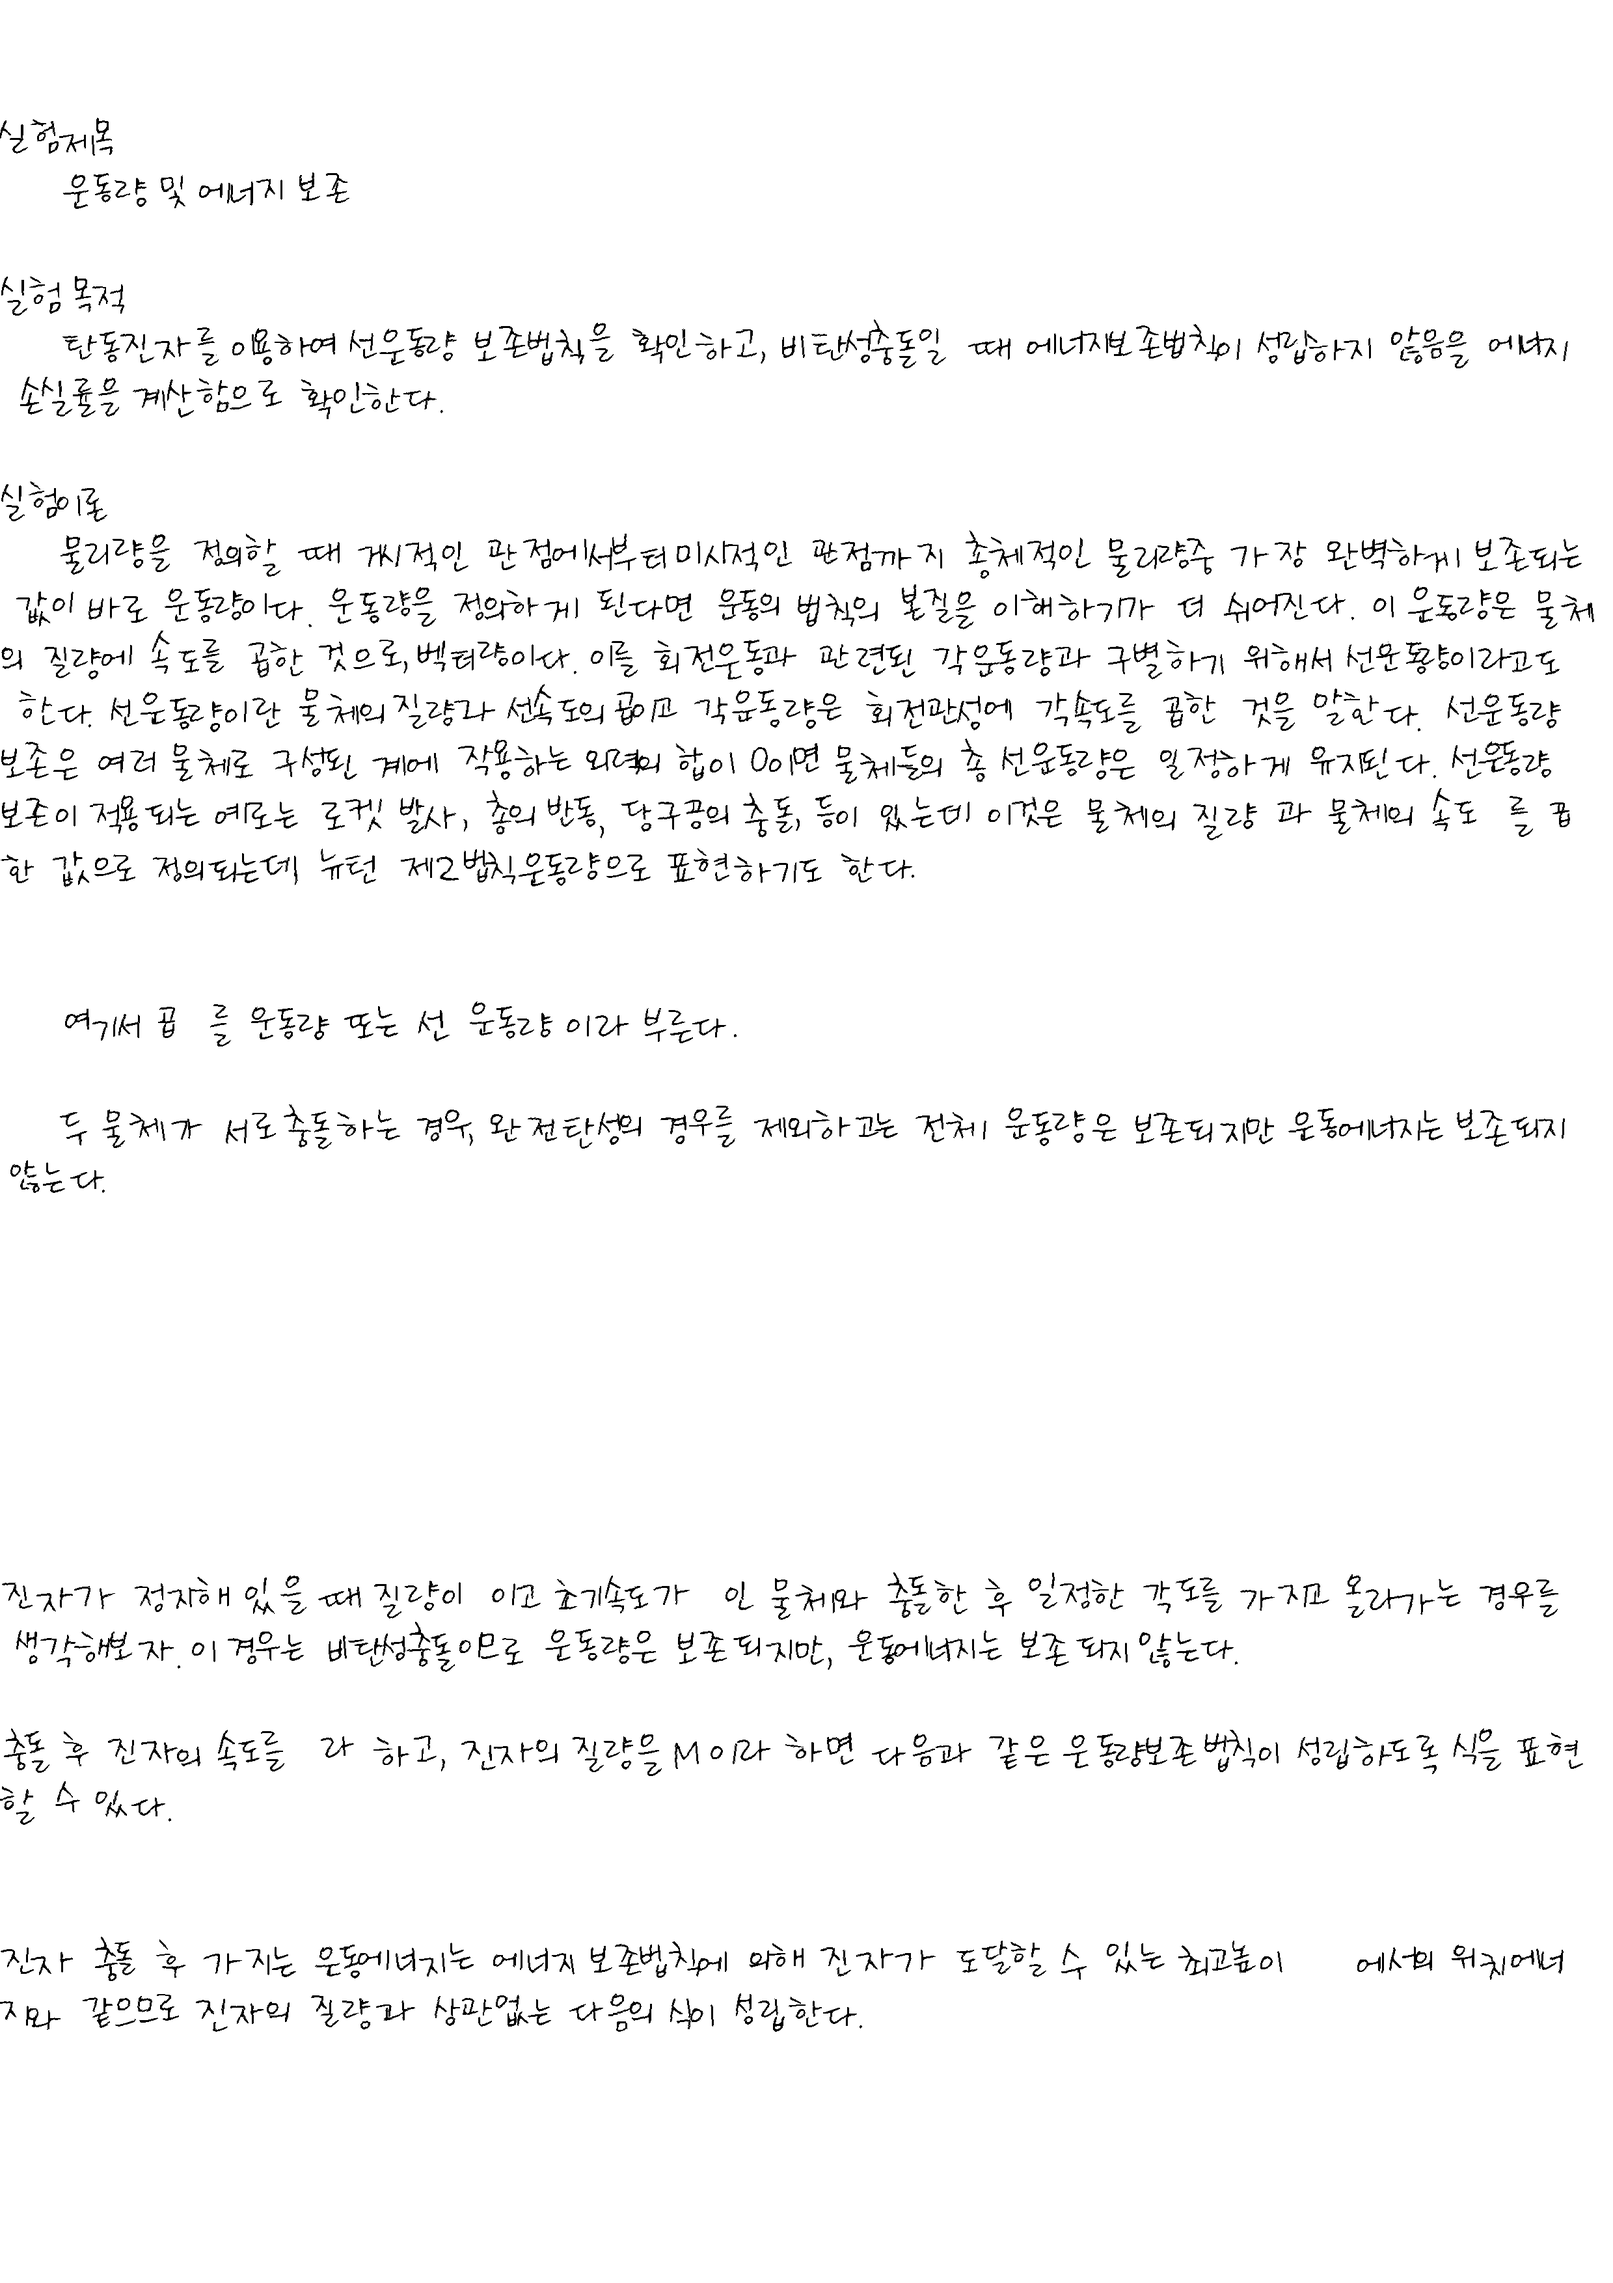
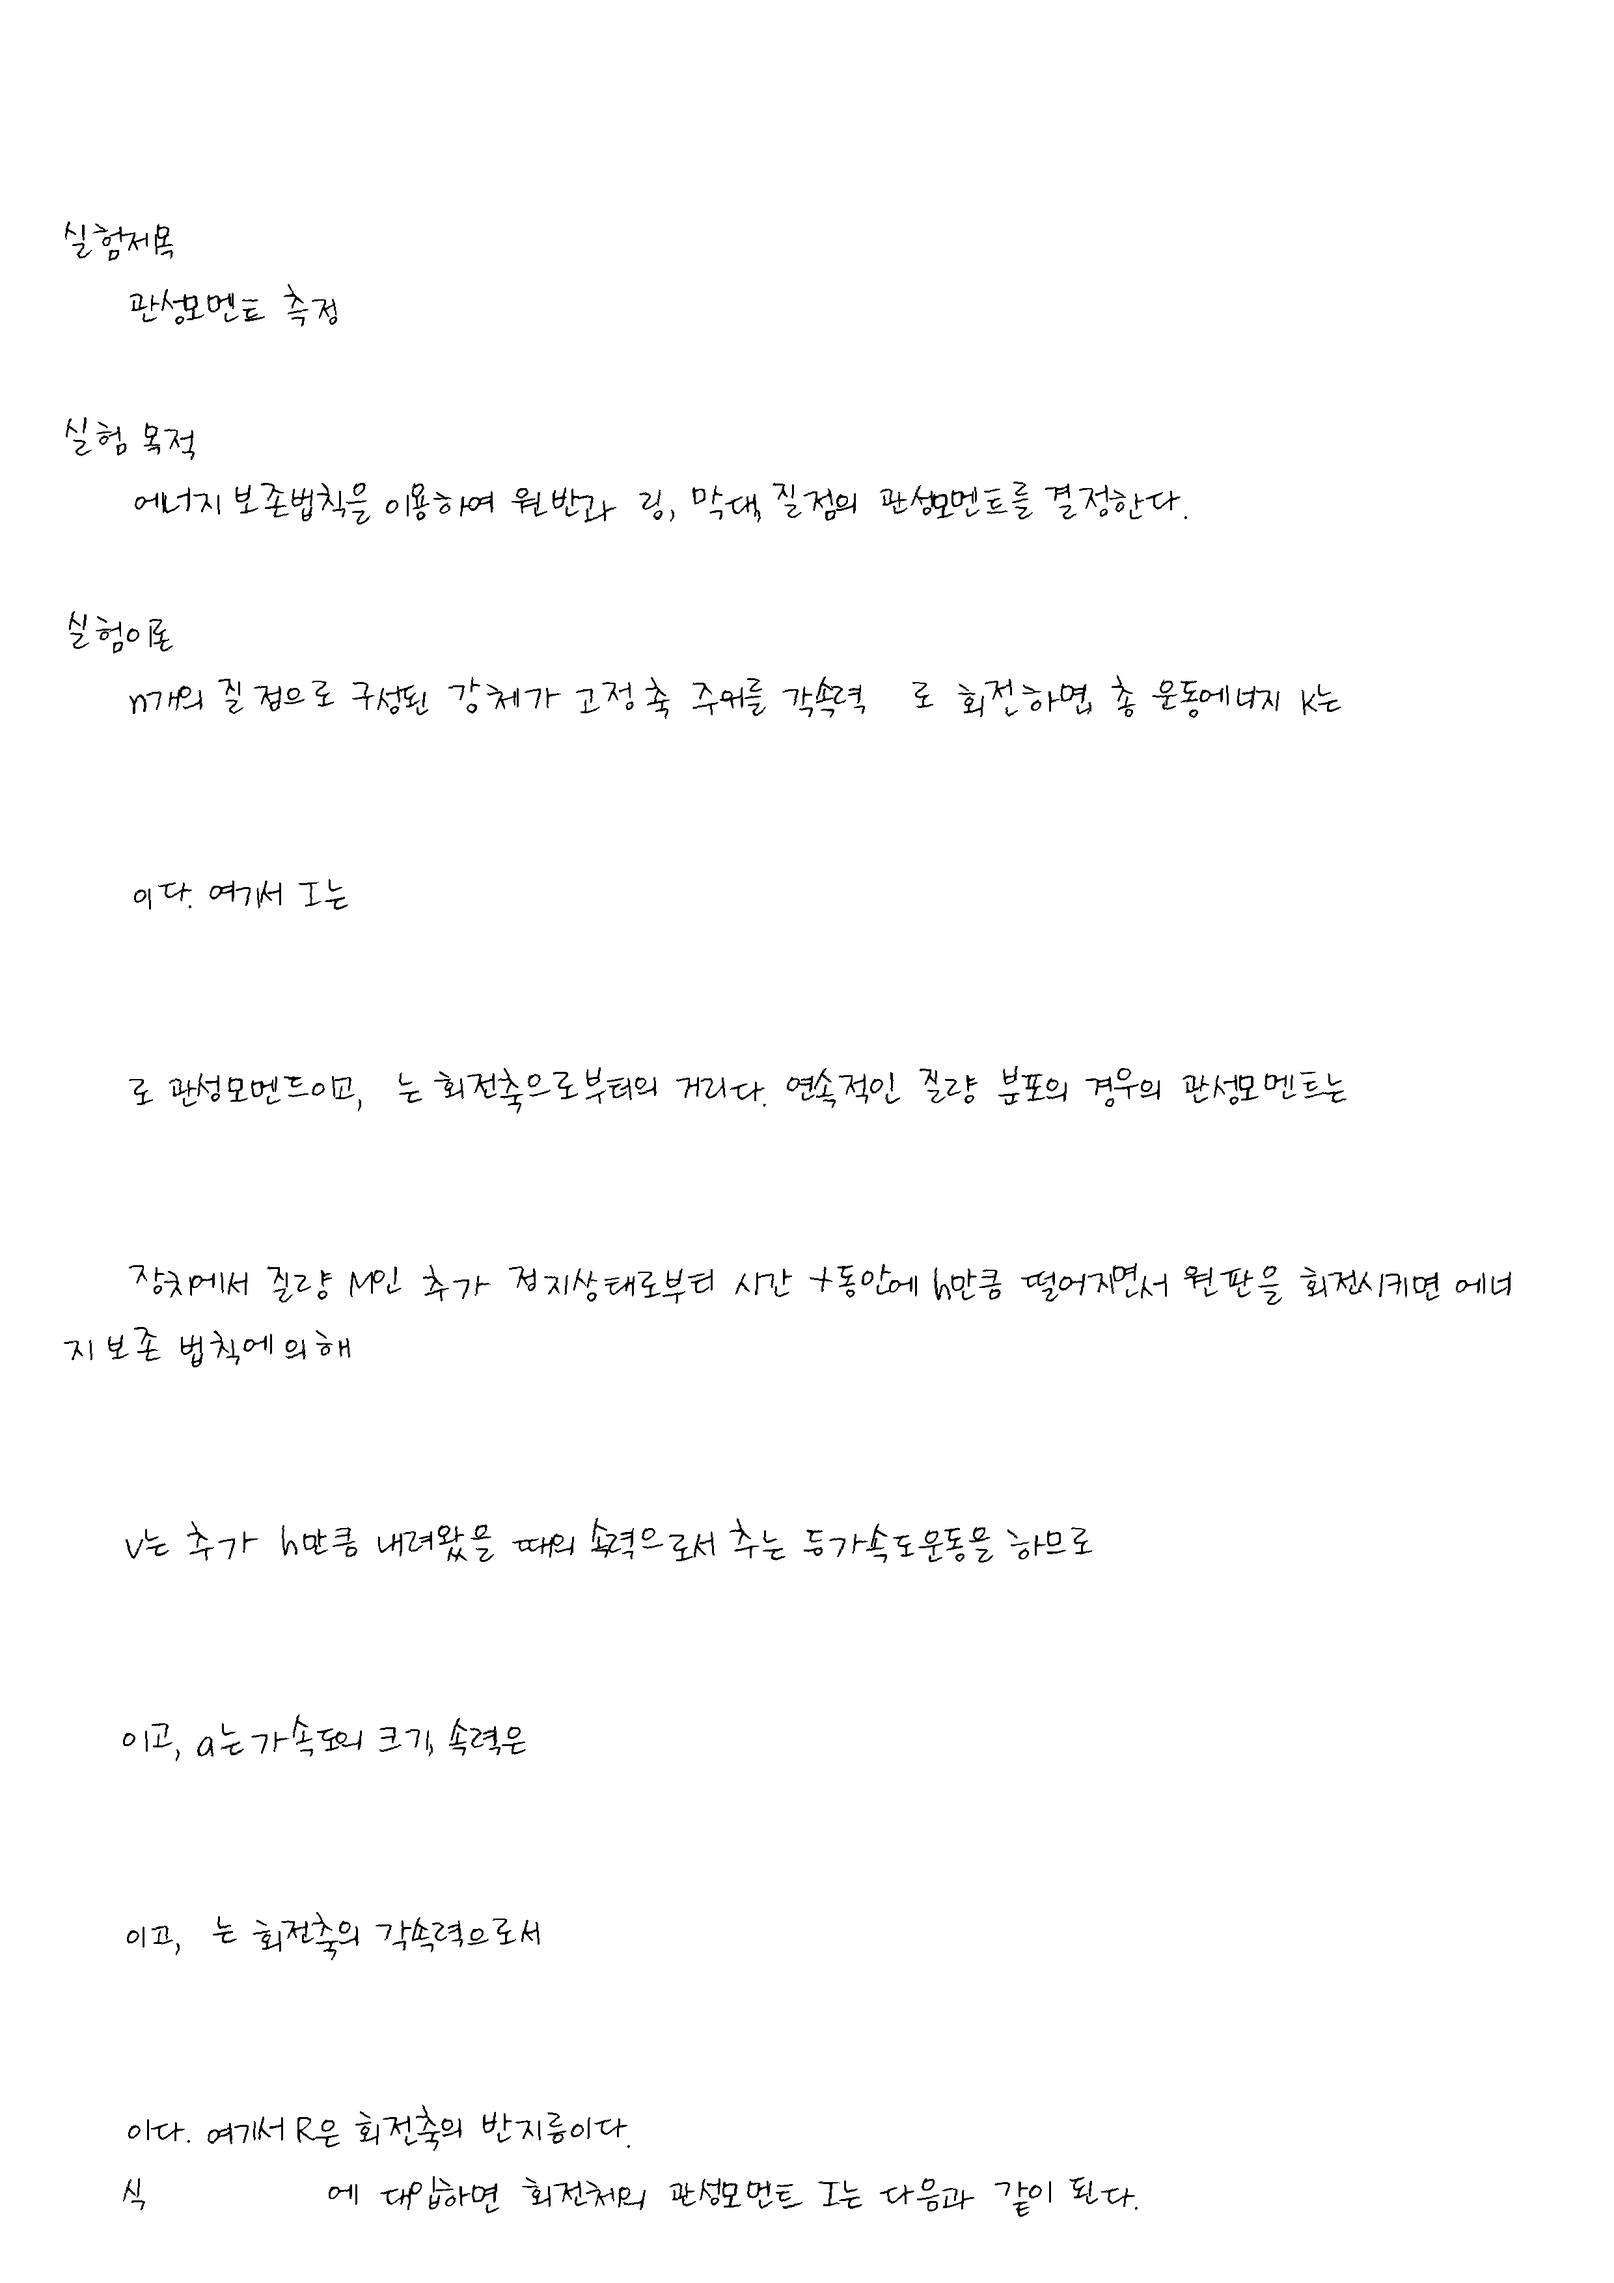
add

diff --git a/hard_writing_test.py b/hard_writing_test.py
@@ -7,96 +7,76 @@ from handright import Template, handwrite
 text = """
 
 실험제목
-    운동량 및 에너지 보존
+    관성모멘트 측정
 
 실험 목적
-    탄동진자를 이용하여 선운동량 보존법칙을 확인하고, 비탄성충돌일 때 에너지보존법칙이 성립하지 않음을 에너지 손실률을 계산함으로 확인한다.
+    에너지 보존법칙을 이용하여 원반과 링, 막대, 질점의 관성모멘트를 결정한다.
 
 실험이론
-    물리량을 정의할 때 거시적인 관점에서부터 미시적인 관점까지 총체적인 물리량중 가장 완벽하게 보존되는 값이 바로 운동량이다. 운동량을 정의하게 된다면 운동의 법칙의 본질을 이해하기가 더 쉬어진다. 이 운동량은 물체의 질량에 속도를 곱한 것으로, 벡터량이다. 이를 회전운동과 관련된 각운동량과 구별하기 위해서 선운동량이라고도 한다. 선운동량이란 물체의 질량과 선속도의 곱이고 각운동량은 회전관성에 각속도를 곱한 것을 말한다.  선운동량 보존은 여러 물체로 구성된 계에 작용하는 외력의 합이 0이면 물체들의 총 선운동량은 일정하게 유지된다. 선운동량 보존이 적용되는 예로는 로켓 발사, 총의 반동, 당구공의 충돌, 등이 있는데 이것은 물체의 질량 과 물체의 속도  를 곱한 값으로 정의되는데, 뉴턴 제2법칙운동량으로 표현하기도 한다.
+    n개의 질점으로 구성된 강체가 고정 축 주위를 각속력   로 회전하면, 총 운동에너지 K는
 
 
-    여기서 곱  를 운동량 또는 선 운동량 이라 부른다.
-
-    두 물체가 서로 충돌하는 경우, 완전탄성의 경우를 제외하고는 전체 운동량은 보존되지만 운동에너지는 보존되지 않는다.
+    이다. 여기서 I는
 
 
+    로 관성모멘트이고,  는 회전축으로부터의 거리다. 연속적인 질량 분포의 경우의 관성모멘트는
 
 
+    장치에서 질량 M인 추가 정지상태로부터 시간 t동안에 h만큼 떨어지면서 원판을 회전시키면 에너지 보존 법칙에 의해
 
 
-
-진자가 정지해 있을 때 질량이  이고 초기속도가  인 물체와 충돌한 후 일정한 각도를 가지고 올라가는 경우를 생각해보자. 이 경우는 비탄성충돌이므로 운동량은 보존되지만, 운동에너지는 보존되지 않는다.
-
-충돌 후 진자의 속도를  라 하고, 진자의 질량을 M 이라 하면 다음과 같은 운동량보존법칙이 성립하도록 식을 표현할 수 있다.
+    v는 추가 h만큼 내려왔을 때의 속력으로서 추는 등가속도운동을 하므로
 
 
-진자 충돌 후 가지는 운동에너지는 에너지 보존법칙에 의해 진자가 도달할 수 있는 최고높이     에서의 위치에너지와 같으므로 진자의 질량과 상관없는 다음의 식이 성립한다.
+    이고, a는 가속도의 크기, 속력은
 
 
+    이고,  는 회전축의 각속력으로서
 
 
-회전축에서 진자의 질량중심까지의 거리를  이라 할 때 진자가 충돌 후 도달할 수 있는 최고 높이     는             가 되어 진자의 운동량보존법칙의 식이 다음과 같이 된다.
-
-
-
-
-
-
-
-
-
-
-
-위와 같은 포물선운동은 등속운동과 등가속도운동이 함께 나타나는 이차원 운동이므로 수평방향과 수직방향으로의 운동을 각각 생각해야한다. 충돌 전 물체의 속도 를 구하기 위해 발사장치를 이용하여 수평방향으로 날아간 거리  를 계산하면 바닥에 떨어질 때까지의 시간  와 함께 다음과 같이 나타낼 수 있다.
-
-
-물체가 바닥에 떨어지는 수직방향 운동을 생각하면 중력가속도를 고려한 등가속도운동(자유낙하)이므로 떨어진 높이  는
-
-
-이 된다. 따라서, 떨어질 때 걸리는 시간 를 정리한 충돌전 물체 속도  는
-
-
-로 계산 할 수 있으며, 충돌 전의 운동량은 다음과 같이 된다.
-
-
-탄동진자는 완전비탄성 충돌이므로 에너지보존법칙이 성립하지 않는다. 즉, 충돌로 인한 손실이 생기게 되는데 충돌 전의 에너지 ,  와 충돌 후의 에너지  차이,  는 다음과 같다.
-
-
-
-
-따라서, 에너지 손실률은 다음과 같다.
+    이다. 여기서 R은 회전축의 반지름이다.
+    식            에 대입하면 회전체의 관성모멘트 I는 다음과 같이 된다.
 
 
 
 실험기구
-    회전 모션 센서, 포토게이트, 포사체 발사대, 탄동진자, 스탠드, 지지막대
-
+    회전 모션 센서, 질량물체와 행거 세트, 회전 엑세서리, 받침대, 지지막대, 실
 
 실험방법
-    1. 탄동진자를 회전 모션 센서와 연결한다.
-    2. 포사체 발사대를 실험대 가장자리에 조임쇠를 이용하여 고정한다.
-    3. 포사체 발사대의 각도를 수평으로 조절하고, 포토게이트를 발사대 바로 앞에 설치한다.
-    4. 포사체가 탄동진자에 제대로 들어갈 수 있도록 스탠드의 위치를 조절한다.
-    5. 회전 모션 센서와 포토게이트를                      의  디지털  채널에 연결한다.
-    6. 장전 막대를 이용해 포사체 발사대에 플라스틱 공을 장전한다.
-    7. 포사체를 발사한다.
-    8. 회전 모션 센서로 최대 각도를, 포토게이트로 초기속도를 측정하여 기록한다.
-    9. 구슬의 질량, 발사 세기를 바꿔가며 포사체의 초기속도를 측정한다.
-    10. 회전 모션 센서를 이용해 계산한 초기속도의 이론값과 포토게이트를 이용해 측정한 초기속도의 측정값을 비교해 본다.
+    1. 회전 모션 센서를 지지 막대에 설치하고, 회전 모션 센서의 끝에 클램프된 슈퍼 도르래를 설치한다.
+    2. 실은 책상 아래로 내려갈 정도로 충분한 길이를 준비하고, 스텝 도르래에 묶어준다. 스텝 도르래는 가장 큰 도르래를 사용한다.
+    3. 실을 슈퍼 도르래에 걸치고, 질량 행거에 실의 다른 끝을 묶어준다.
+    4. 슈퍼 도르래에 걸친 실이 스텝도르래의 접선 방향과 나란하도록 그림과 같이 슈퍼 도르래를 조절한다.
+    5. 스텝 도르래 위에 원반을 놓고 고정나사로 조인다.
+    6. 질량 행거에 추를 걸어주고 질량 행거가 슈퍼 도르래에 거의 다다를 때까지 스텝 도르래에 실을 감아준다. 감은 실이 풀리지 않도록 원반을 적당히 붙잡아준다.
+    7. 데이터 기록을 시작하고 원반을 놓아준다.
+    8. 질량 행거가 바닥에 닿기 직전에 데이터 기록을 중단한다.
+    9. 질량 걸이에 걸리는 질량을 달리하여 측정을 한다.
+    10. 원반 위에 샘플링, 샘플원반을 올려놓고 위 실험방법을 반복한다
 
 
 참고문헌
                          최신대학물리, 북스힐
     한양대학교 물리학과 물리교재 연구실, 실사구시의 물리학, 한양대학교 출판부
-    물리의 이해  포사체 운동량 변화 모의실험 
 
 """
 template = Template(
-    background=Image.new(mode="1", size=(2479, 3508), color=1),
+    background=Image.new(
+        mode="1",
+        size=(2480, 3508),
+        color=1,
+
+    ),
+    line_spacing=100,
+    left_margin=100,
+    top_margin=100,
+    right_margin=100,
+    bottom_margin=100,
+    # word_spacing=10,
     font=ImageFont.truetype("00001.ttf", size=80),
 )
 images = handwrite(text, template)
+
 for idx, im in enumerate(images):
     assert isinstance(im, Image.Image)
     # im.show()

diff --git a/hard_writing_copy.py b/hard_writing_copy.py
@@ -1,0 +1,31 @@
+# hard_writing_test.py
+# coding: utf-8
+from PIL import Image, ImageFont
+
+from handright import Template, handwrite
+
+text = """
+
+
+
+"""
+template = Template(
+    background=Image.new(
+        mode="1",
+        size=(2480, 3508),
+        color=1,
+
+    ),
+    line_spacing=100,
+    left_margin=100,
+    top_margin=100,
+    right_margin=100,
+    bottom_margin=100,
+    word_spacing=10,
+    font=ImageFont.truetype("00002.ttf", size=80),
+)
+images = handwrite(text, template)
+for idx, im in enumerate(images):
+    assert isinstance(im, Image.Image)
+    # im.show()
+    im.save("ex{:04d}.png".format(idx))
